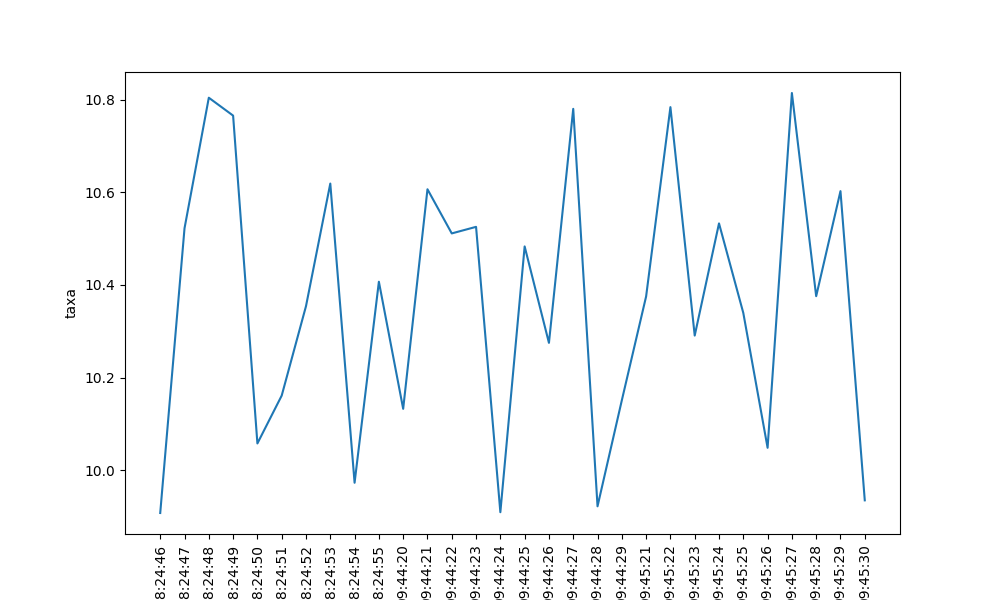
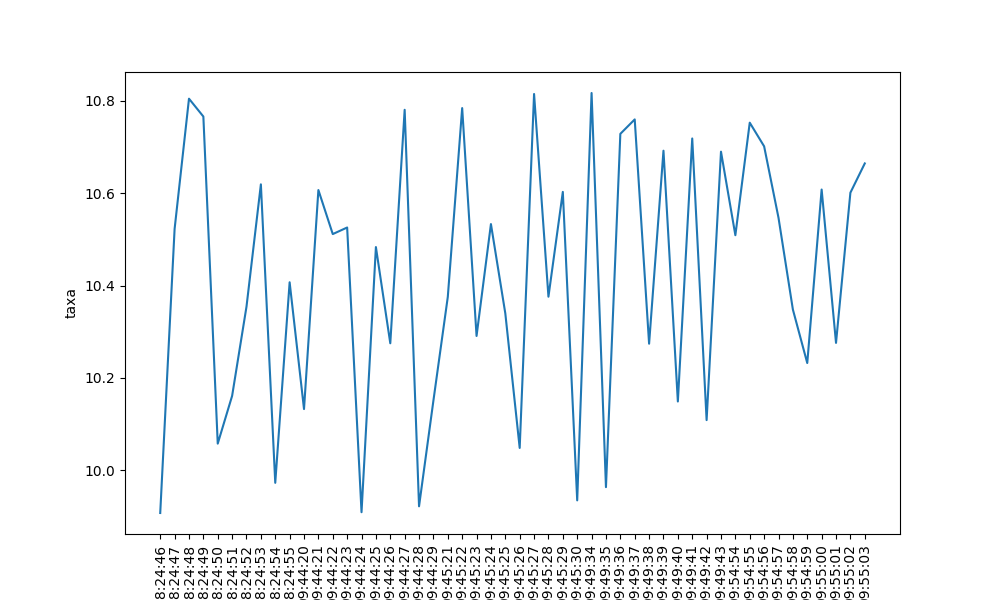
OO modify

diff --git a/DESAFIOS/EXERCÍCIOS/analiseOO.py b/DESAFIOS/EXERCÍCIOS/analiseOO.py
@@ -1,0 +1,94 @@
+import os
+import time
+import json
+from random import random
+from datetime import datetime
+import csv
+import sys
+import pandas as pd
+import seaborn as sns
+import matplotlib.pyplot as plt
+import requests
+
+
+class CDIExtractorVisualizer:
+    def __init__(self, url, output_csv='./taxa-cdi.csv'):
+        self.url = url
+        self.output_csv = output_csv
+        self.cdi = None
+        self.output_filename = "grafico.png"
+
+    def fetch_data(self):
+        # Captando a taxa CDI do site do BCB
+        try:
+            response = requests.get(url=self.url)
+            response.raise_for_status()
+        except requests.HTTPError as exc:
+            print("Dado não encontrado, continuando.")
+            self.cdi = None
+        except Exception as exc:
+            print("Erro, parando a execução.")
+            raise exc
+        else:
+            self.cdi = json.loads(response.text)[-1]['valor']
+
+    def create_data_points(self):
+        # Criando a variável data e hora
+        for _ in range(0, 10):
+            data_e_hora = datetime.now()
+            data = datetime.strftime(data_e_hora, '%Y/%m/%d')
+            hora = datetime.strftime(data_e_hora, '%H:%M:%S')
+
+            cdi_value = float(self.cdi) + (random() - 0.5)
+
+            # Verificando se o arquivo "taxa-cdi.csv" existe
+            if not os.path.exists(self.output_csv):
+                with open(file=self.output_csv, mode='w', encoding='utf8') as fp:
+                    fp.write('data,hora,taxa\n')
+
+            # Salvando dados no arquivo "taxa-cdi.csv"
+            with open(file=self.output_csv, mode='a', encoding='utf8') as fp:
+                fp.write(f'{data},{hora},{cdi_value}\n')
+
+            time.sleep(1)
+
+        print("Sucesso")
+
+    def set_output_filename(self):
+        # Verificar se um argumento foi passado para o nome do arquivo
+        if len(sys.argv) > 1:
+            self.output_filename = sys.argv[1]
+            # Verificar se a extensão do arquivo é válida
+            if not os.path.splitext(self.output_filename)[1] in ['.png', '.jpg', '.jpeg', '.svg', '.pdf']:
+                self.output_filename = self.output_filename.replace('.json','.png')
+        else:
+            self.output_filename = "grafico.png"
+
+    def visualize_data(self):
+        # Extraindo as colunas hora e taxa
+        df = pd.read_csv(self.output_csv)
+
+        # Criando o gráfico
+        plt.figure(figsize=(10, 6))  # Definir tamanho da figura, se necessário
+        grafico = sns.lineplot(x=df['hora'], y=df['taxa'])
+
+        # Definindo os ticks no eixo x
+        grafico.set_xticks(range(len(df['hora'])))
+
+        # Definindo as etiquetas dos ticks
+        grafico.set_xticklabels(labels=df['hora'], rotation=90)
+
+        # Salvando o gráfico
+        grafico.get_figure().savefig(self.output_filename)
+
+    def run(self):
+        self.fetch_data()
+        self.create_data_points()
+        self.set_output_filename()
+        self.visualize_data()
+
+
+if __name__ == "__main__":
+    URL = 'https://api.bcb.gov.br/dados/serie/bcdata.sgs.4392/dados'
+    cdi_extractor_visualizer = CDIExtractorVisualizer(URL)
+    cdi_extractor_visualizer.run()
